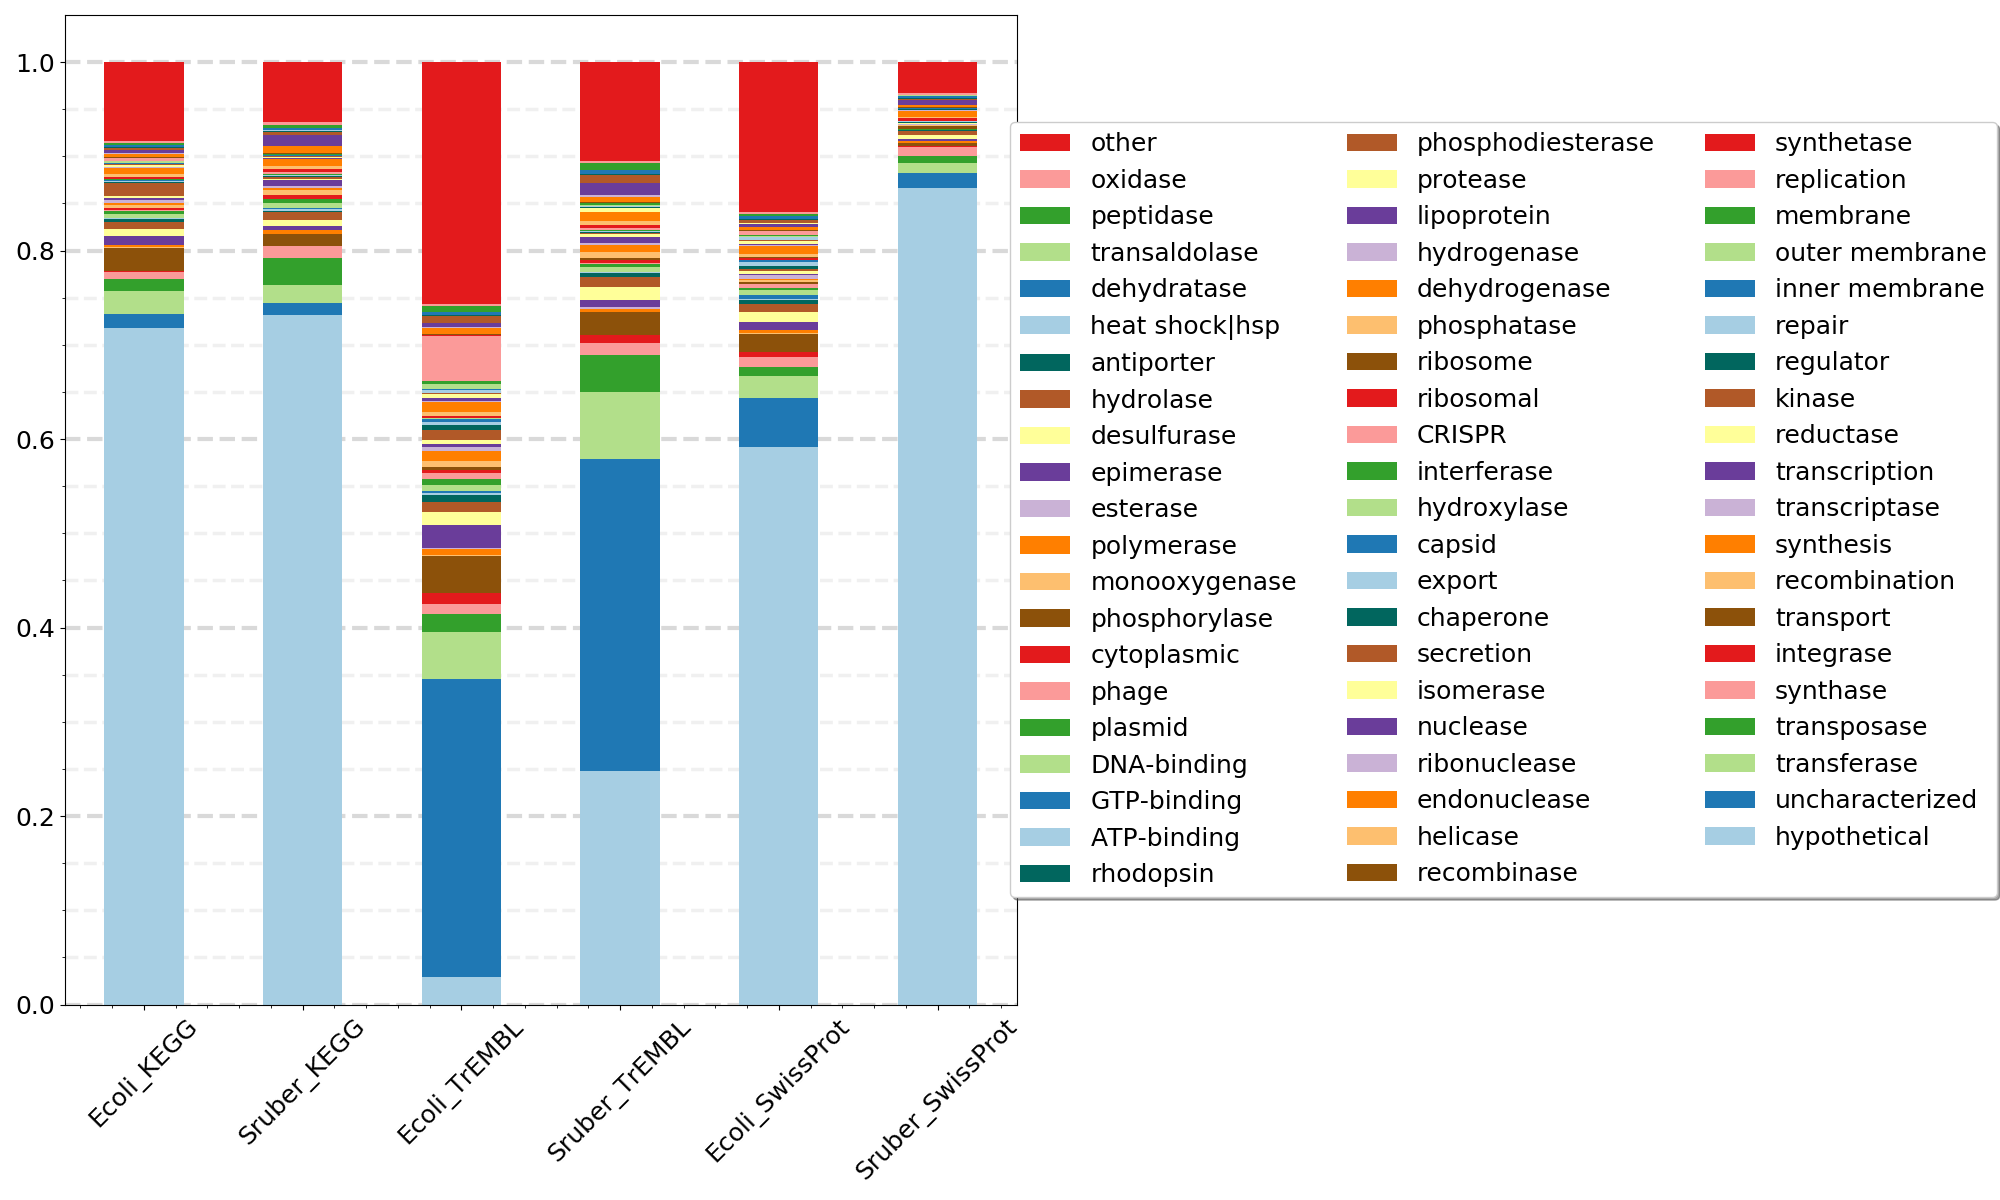
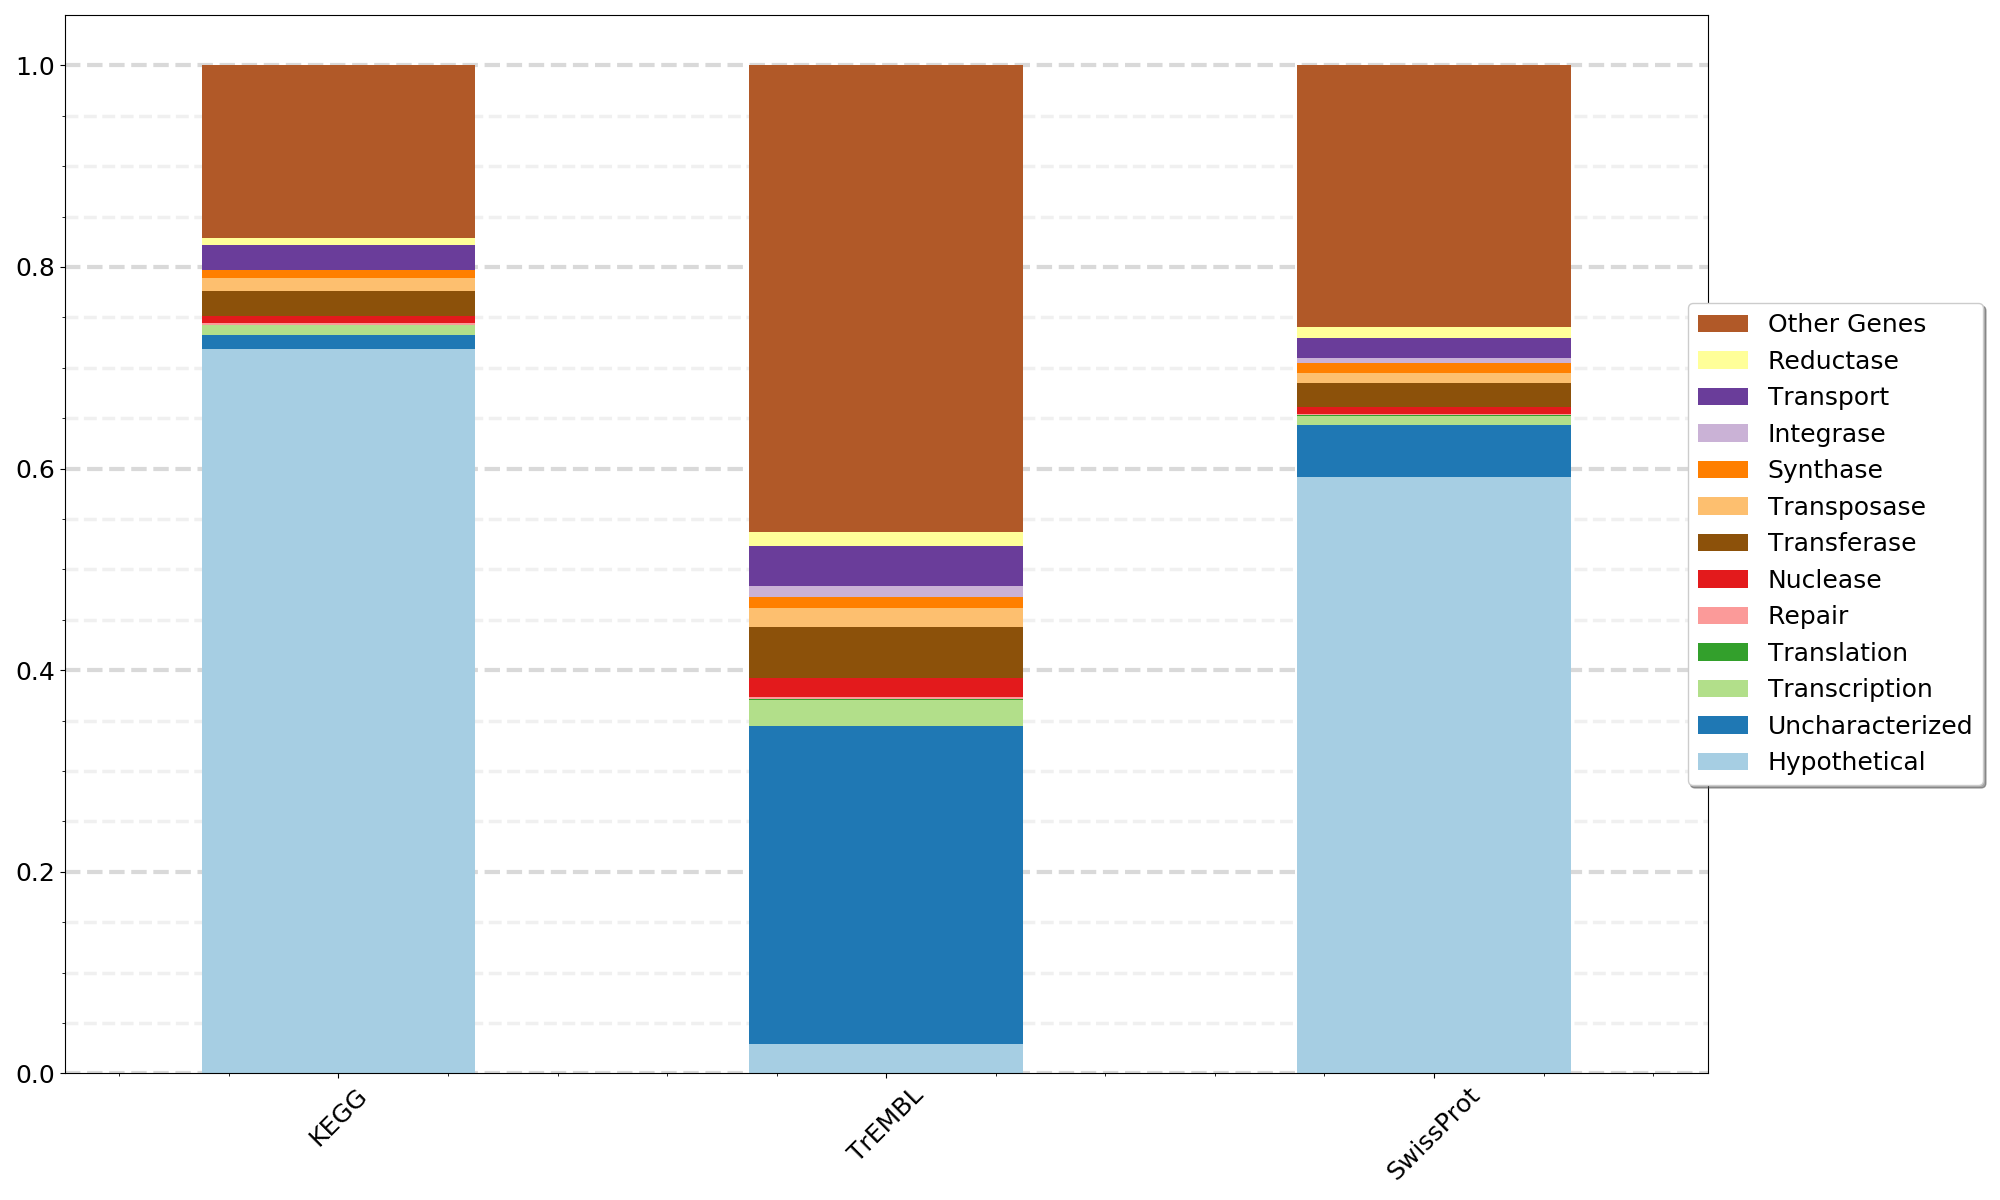
Update Readme, 05b, and 05c

diff --git a/Annotation_Pipeline/05b_Compare_Annotation_Results.py b/Annotation_Pipeline/05b_Compare_Annotation_Results.py
@@ -2,10 +2,12 @@
 
 '''
 
-Build Plots to compare annotation results for 2 difference organisms
+Build Plots to summarize and compare annotation results from the three
+databases in used in the Annotation Pipeline.
 
-writes stacked barplots as .png files.
-writes other gene category annotations to tsv files for each database.
+Writes stacked barplots as .png files.
+Writes gene types counts to .tsv file.
+Writes annotations to tsv files for each database.
 
 -------------------------------------------
 Author :: Roth Conrad
@@ -25,12 +27,12 @@ matplotlib.use('agg')
 import matplotlib.pyplot as plt
 import pandas as pd
 
-def get_summaries(infile, list, out):
+def get_summaries(infile, gene_list, out):
     """ Read input table and generate counts """
 
     data = defaultdict(list)
 
-    df = pd.read_csv(f1, sep='\t', index_col=0)
+    df = pd.read_csv(infile, sep='\t', index_col=0)
 
     dbs = ['KEGG', 'TrEMBL', 'SwissProt']
     gene_legend = []
@@ -38,80 +40,65 @@ def get_summaries(infile, list, out):
 
     # gn is also the row names or index
     # This is a list of key words to look for in the gene annotations
-    with open(list) as f:
+    with open(gene_list) as f:
         header = f.readline()
         for l in f:
             X = l.rstrip().split(', ')
             gene_legend.append(X[0])
             gene_match.append(X[1])
+    gene_legend.append('Other Genes')
 
-    # This is the 3 databases x the 2 organisms
-    colnames = [
-                f'{s1}_KEGG', f'{s2}_KEGG', f'{s1}_TrEMBL',
-                f'{s2}_TrEMBL', f'{s1}_SwissProt', f'{s2}_SwissProt',
-                ]
+    gene_counts = open(f'{out}_gene_counts.tsv', 'w')
 
-    Master_other1 = df1
-    Master_other2 = df2
-    total1 = df1.shape[0]
-    total2 = df2.shape[0]
+    Master_other = df
+    total = df.shape[0]
 
-    for d in db: # for each database
+    for d in dbs: # for each database
 
         # the other category is built by subtracting results of each
         # search from the initial databases. Everything remaining after
         # searching all of the gn list is the other category.
-        other1 = df1
-        other2 = df2
+        other = df
 
-        print(f'\n\n{d}')
+        print(d)
+        gene_counts.write(d)
 
-        for g in gn: # for each gene category in gn list calculation for total
+        # for each gene category in gn list calculation for total
+        for g in gene_match:
 
             # Select gene category
-            select1 = other1[d].str.contains(g, case=False, regex=True)
-            select2 = other2[d].str.contains(g, case=False, regex=True)
-            Mselect1 = Master_other1[d].str.contains(g, case=False, regex=True)
-            Mselect2 = Master_other2[d].str.contains(g, case=False, regex=True)
+            select = other[d].str.contains(g, case=False, regex=True)
+            Mselect = Master_other[d].str.contains(g, case=False, regex=True)
 
-            geneD1 = other1[select1]
-            geneD2 = other2[select2]
+            geneD = other[select]
             # Select remaining genes
-            other1 = other1[~select1]
-            other2 = other2[~select2]
-            Master_other1 = Master_other1[~Mselect1]
-            Master_other2 = Master_other2[~Mselect2]
+            other = other[~select]
+            Master_other = Master_other[~Mselect]
 
-            len1 = geneD1.shape[0]
-            len2 = geneD2.shape[0]
-            data[g].append(len1)
-            data[g].append(len2)
+            glen = geneD.shape[0]
+            data[g].append(glen)
 
-            print(
-                g, len1, f'{len1/total1*100:.2f}',
-                len2, f'{len2/total2*100:.2f}'
-                )
+            print(g, glen, f'{glen/total*100:.2f}')
+            gene_counts.write(f'{g}\t{glen}\t{glen/total*100:.2f}\n')
 
-
+        print('\n\n')
+        gene_counts.write('\n\n')
         ### Calculate "other" gene category ###
-        data['other'].append(float(len(other1)))
-        data['other'].append(float(len(other2)))
+        data['other'].append(float(len(other)))
 
         ### Write other category for each db to file ###
-        other1.to_csv(f'{out}_{s1}_{d}.tsv', sep='\t')
-        other2.to_csv(f'{out}_{s2}_{d}.tsv', sep='\t')
+        other.to_csv(f'{out}_{d}_OtherGenes.tsv', sep='\t')
 
     ### Write master other category to file ###
-    Master_other1.to_csv(f'{out}_{s1}_Master.tsv', sep='\t')
-    Master_other2.to_csv(f'{out}_{s2}_Master.tsv', sep='\t')
+    Master_other.to_csv(f'{out}_Master_OtherGenes.tsv', sep='\t')
 
     ### Convert Dictionaries to DataFrames ####
-    df = pd.DataFrame.from_dict(data, orient='index', columns=colnames)
+    df = pd.DataFrame.from_dict(data, orient='index', columns=dbs)
 
-    return df
+    return df, gene_legend
 
 
-def Plot_Annotation_Summary(df, out):
+def Plot_Annotation_Summary(df, gene_legend, legend_columns, out):
     """ Plot Stacked Bar Charts by PanCats for each DB """
 
     colors = [
@@ -144,8 +131,8 @@ def Plot_Annotation_Summary(df, out):
     handles, labels = ax.get_legend_handles_labels()
     ax.legend(
         handles[::-1],
-        labels[::-1],
-        ncol=3,
+        gene_legend[::-1],
+        ncol=legend_columns,
         loc='center left',
         bbox_to_anchor=(0.98, 0.5),
         fancybox=True,
@@ -181,6 +168,13 @@ def main():
         #required=True
         )
     parser.add_argument(
+        '-c', '--legend_columns',
+        help='Number of columns for the legend.',
+        metavar='',
+        type=int,
+        #required=True
+        )
+    parser.add_argument(
         '-o', '--out_file',
         help='What do you want to name the output file?',
         metavar='',
@@ -190,15 +184,20 @@ def main():
     args=vars(parser.parse_args())
 
     # Do what you came here to do:
-    print('Running Script...')
+    print('\n\nRunning Script...\n\n')
 
-    df = get_summaries(
+    df, gene_legend = get_summaries(
                 args['transformed_annotation_file'],
                 args['gene_types_list'],
                 args['out_file']
                 )
 
-    Plot_Annotation_Summary(df, args['out_file'])
+    Plot_Annotation_Summary(
+                        df,
+                        gene_legend,
+                        args['legend_columns'], 
+                        args['out_file']
+                        )
 
 
 if __name__ == "__main__":
